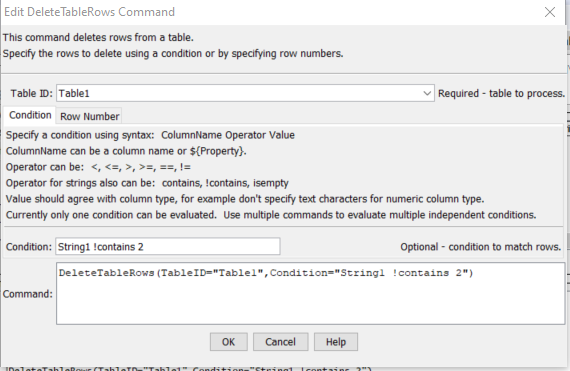
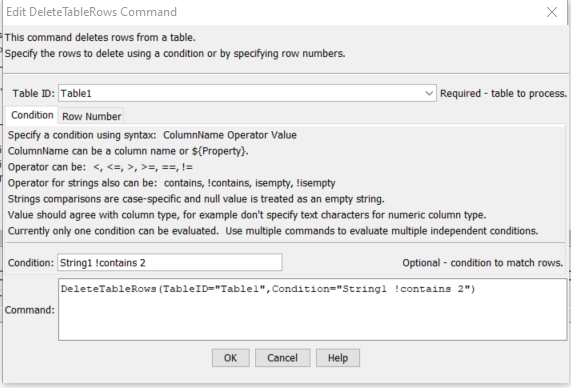
Update ReadTableFromDBF for data type parameters, issue #43
Also update DeleteTableRows for updates to string conditions.

Changed region(s): [[0.0, 0.0, 1.0, 1.0]]

diff --git a/mkdocs-project/docs/command-ref/DeleteTableRows/DeleteTableRows.md b/mkdocs-project/docs/command-ref/DeleteTableRows/DeleteTableRows.md
@@ -11,7 +11,13 @@
 
 ## Overview ##
 
-The `DeleteTableRows` command deletes specified rows from a table.
+The `DeleteTableRows` command deletes specified rows from a table using one of the following approaches:
+
+* ***Condition***
+	+ delete rows where a column value matches a condition
+* ***Row Number***
+	+ delete specific row numbers
+	+ delete all rows
 
 ## Command Editor ##
 
@@ -56,10 +62,9 @@ The `Condition` parameter, if specified, is restricted to a simple comparison:
 ColumnName operator Value
 ```
 
-The values can be integers, floating point numbers, strings, or processor properties
-specified with `${Property}` that
-evaluate to primitive types. The operator is one of the following (more functionality will be added in the
-future). For strings, A is less than Z, etc.
+The `Value` will be taken from the indicated `ColumnName` and can be integer, floating point number, string, or processor property
+specified with `${Property}` that evaluates to a primitive type.
+The operator is one of the following.
 
 * `<`
 * `<=`
@@ -69,7 +74,14 @@ future). For strings, A is less than Z, etc.
 * `!=`
 * `contains` (only for string comparison)
 * `!contains` (only for string comparison)
-* `isempty` (only for string comparison, and does not require `Value` in condition)
+* `isempty` (only for string comparison, and `Value` should not be specified)
+* `!isempty` (only for string comparison, and `Value` should not be specified)
+
+Additional criteria for strings is:
+
+* For `<` and `>` comparisons, `A` is less than `Z`, etc. as per the [ASCII table](http://www.asciitable.com/).
+* Comparisons are case-specific.  Support for case-independent comparisons will be added in the future.
+* Null string is treated as empty string for `isempty` and `!isempty` operators.
 
 ## Examples ##
 

diff --git a/mkdocs-project/docs/command-ref/ReadTableFromDBF/ReadTableFromDBF.md b/mkdocs-project/docs/command-ref/ReadTableFromDBF/ReadTableFromDBF.md
@@ -17,7 +17,9 @@ dBASE files are self-contained binary database files.
 
 Handling of dBASE files is limited and support for newer features may not be included.
 An attempt is made to properly convert dBASE internal data representations to appropriate equivalents.
-In the future additional parameters may be added to control handling of numbers and dates.
+Use available command parameters to convert default column data types to other types.
+For example, integers may be represented in the DBF file as a number with zero precision (digits after decimal)
+and may need to be converted to integer type.
 
 ## Command Editor ##
 
@@ -46,6 +48,9 @@ Command Parameters
 | --------------|-----------------|----------------- |
 |`TableID`<br>**required**|Identifier to assign to the table that is read, which allows the table data to be used with other commands.  Can be specified with `${Property}.`|None – must be specified.|
 |`InputFile`<br>**required**|The name of the file to read, as an absolute path or relative to the command file location.  Can be specified with `${Property}`.|None – must be specified.|
+|`DoubleColumns`|Name(s) of columns that should be converted to double data type, separated by commas.  Column names can contain `*` as a wildcard and can be specified with `${Property}`.||
+|`IntegerColumns`|Name(s) of columns that should be converted to integer data type, separated by commas.  Column names can contain `*` as a wildcard and can be specified with `${Property}`.||
+|`TextColumns`|Name(s) of columns that should be converted to text data type, separated by commas.  Column names can contain `*` as a wildcard and can be specified with `${Property}`.||
 |`Top`|If specified, the top number of rows specified by the parameter will be read.|Return all data.|
 
 ## Examples ##

diff --git a/mkdocs-project/docs/appendix-release-notes/release-notes-13.md b/mkdocs-project/docs/appendix-release-notes/release-notes-13.md
@@ -28,8 +28,10 @@ add `CompareFlags` to control whether data flags are also compared.
 * ![change](change.png) [13.03.00] Update the
 [`CreateRegressionTestCommandFile`](../command-ref/CreateRegressionTestCommandFile/CreateRegressionTestCommandFile.md)
 command to support multiple patterns to match files.
-* ![change](change.png) [13.03.00] Update the [`DeleteTableRows`](../command-ref/DeleteTableRows/DeleteTableRows.md) command to allow `*` to delete all rows.
+* ![change](change.png) [13.03.00] Update the [`DeleteTableRows`](../command-ref/DeleteTableRows/DeleteTableRows.md) command to allow `*` to delete all rows,
+additional functionality has been added for strings, and string operations have been made case-dependent.
 * ![change](change.png) [13.03.00] Update the [`NewTable`](../command-ref/NewTable/NewTable.md) command to support arrays.
+* ![change](change.png) [13.03.00] Update the [`ReadTableFromDBF`](../command-ref/ReadTableFromDBF/ReadTableFromDBF.md) command to covert column data types.
 * ![change](change.png) [13.03.00] Update the [`SetProperty`](../command-ref/SetProperty/SetProperty.md) command to allow math parameters to be specified as properties.
 * ![change](change.png) [13.03.00] Update the [`SetTableValues`](../command-ref/SetTableValues/SetTableValues.md) command to
 add `Column` and `Value` parameters to set a single column value, useful for complex values such as arrays
